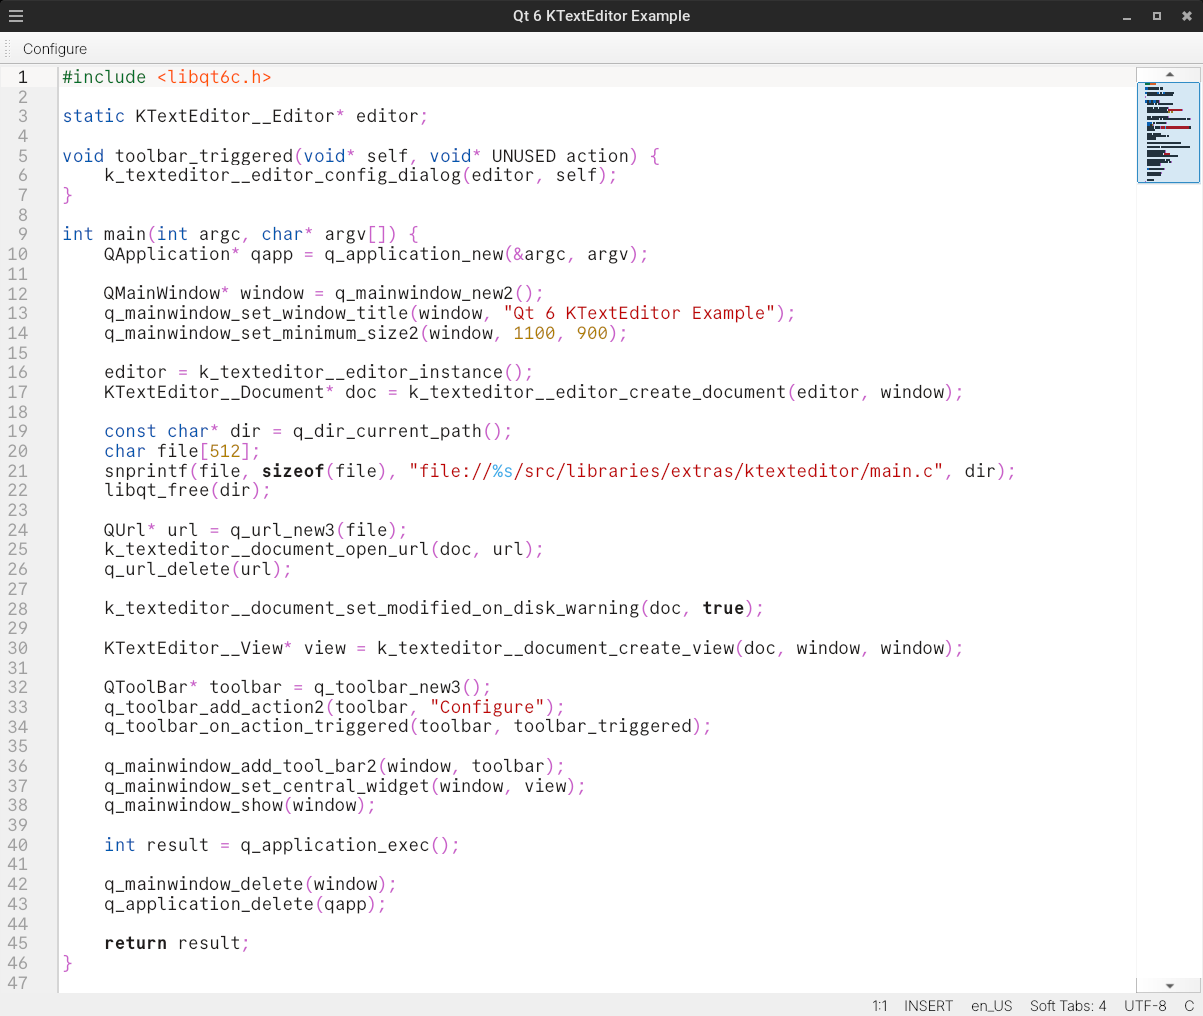
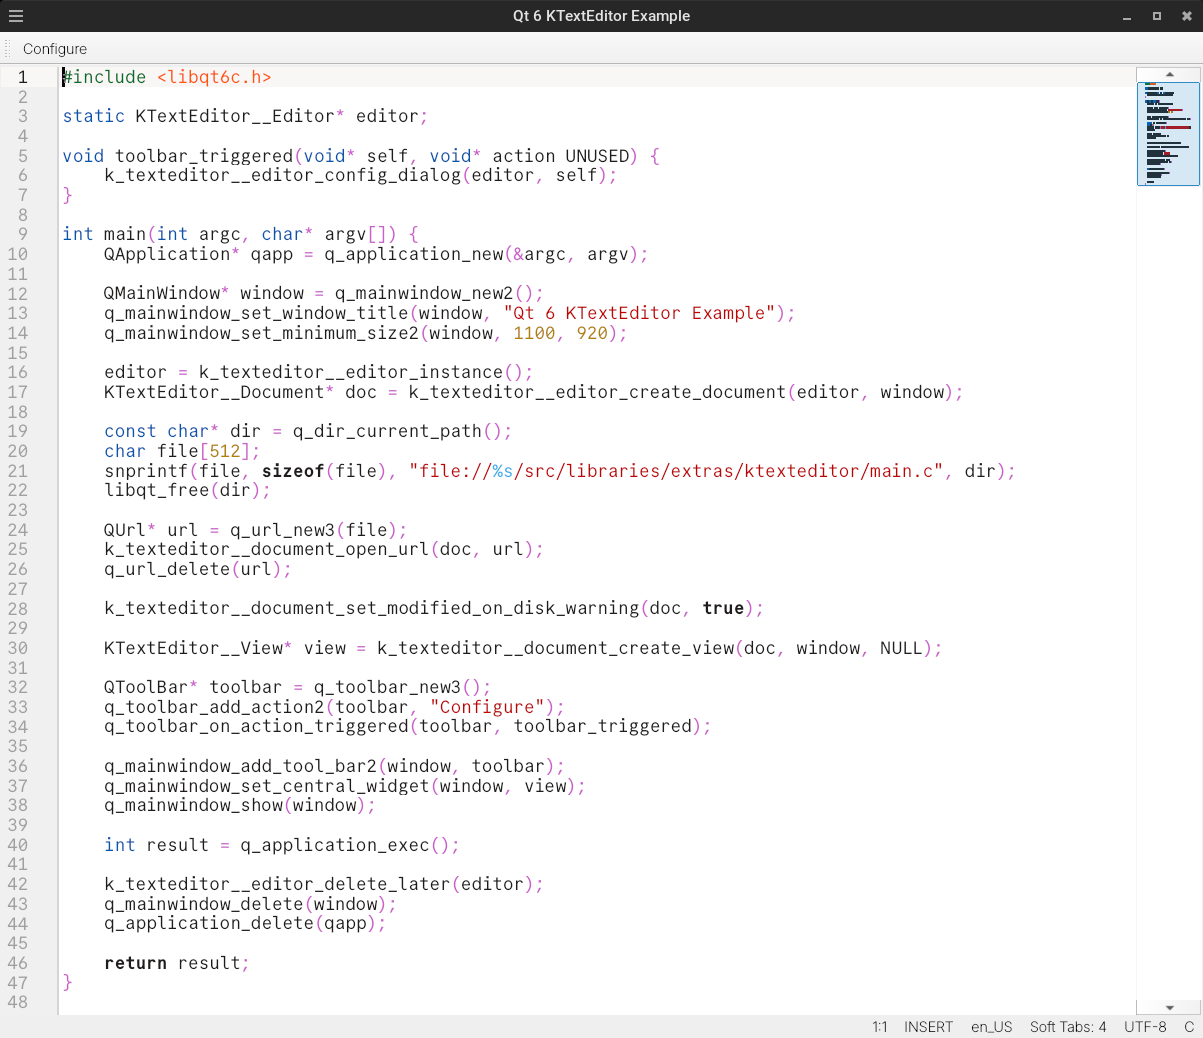
ktexteditor: Fix memory leak

diff --git a/src/libraries/extras/ktexteditor/main.c b/src/libraries/extras/ktexteditor/main.c
@@ -11,7 +11,7 @@ int main(int argc, char* argv[]) {
 
     QMainWindow* window = q_mainwindow_new2();
     q_mainwindow_set_window_title(window, "Qt 6 KTextEditor Example");
-    q_mainwindow_set_minimum_size2(window, 1100, 900);
+    q_mainwindow_set_minimum_size2(window, 1100, 920);
 
     editor = k_texteditor__editor_instance();
     KTextEditor__Document* doc = k_texteditor__editor_create_document(editor, window);
@@ -27,7 +27,7 @@ int main(int argc, char* argv[]) {
 
     k_texteditor__document_set_modified_on_disk_warning(doc, true);
 
-    KTextEditor__View* view = k_texteditor__document_create_view(doc, window, window);
+    KTextEditor__View* view = k_texteditor__document_create_view(doc, window, NULL);
 
     QToolBar* toolbar = q_toolbar_new3();
     q_toolbar_add_action2(toolbar, "Configure");
@@ -39,6 +39,7 @@ int main(int argc, char* argv[]) {
 
     int result = q_application_exec();
 
+    k_texteditor__editor_delete_later(editor);
     q_mainwindow_delete(window);
     q_application_delete(qapp);
 